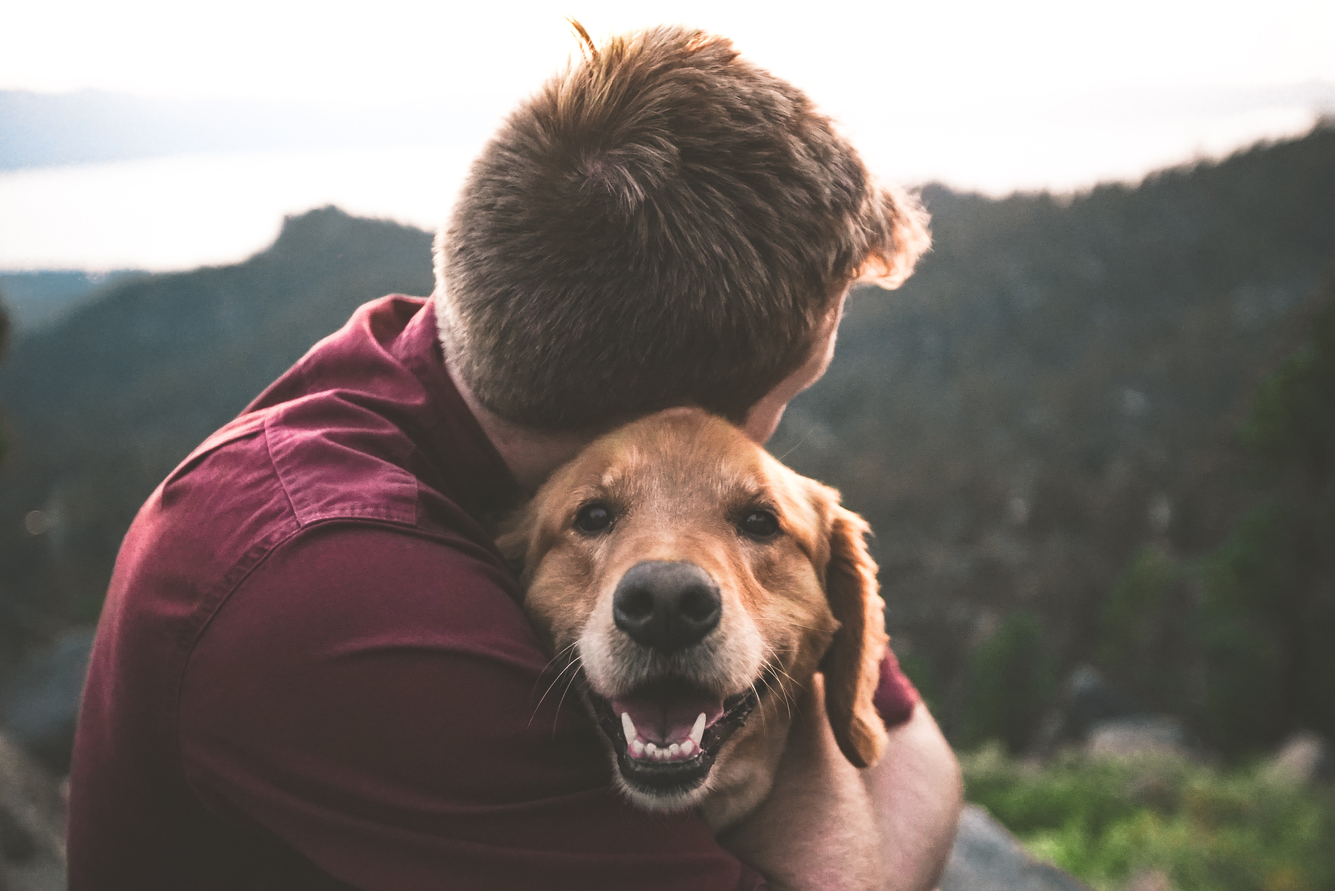
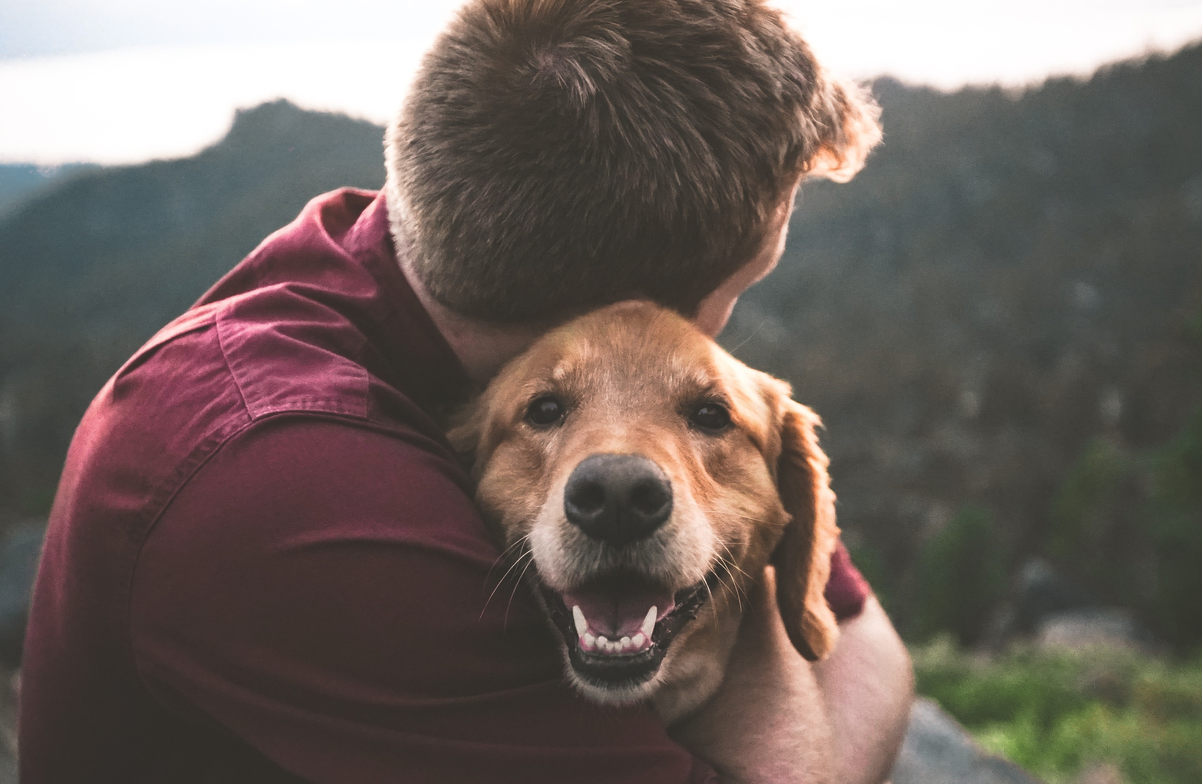
aksh

diff --git a/index.html b/index.html
@@ -60,8 +60,8 @@
             <div class="row">
 
 
-                <div class="col-md-12 col-sm-12" style="background-image:url('https://github.com/akshat26120/MUclgteam-project/blob/master/images/b.jpg?raw=true'); width:1536; height:800;  background-repeat: no-repeat;  background-attachment: fixed;  
-  background-size: cover;">
+                <div class="col-md-12 col-sm-12" style="background-image:url('https://github.com/akshat26120/MUclgteam-project/blob/master/images/b.jpg?raw=true'); background-repeat: no-repeat;  background-attachment: fixed;  
+  background-size: cover;    filter: blur(10px);   background-color: rgba(0,0,0, 0.4);">
                     <div class="home-thumb">
                         <div class="section-title">
                             <h4 class="wow fadeInUp" data-wow-delay="0.3s" style="padding-top: 30px; color:black">welcome to my website</h4>
